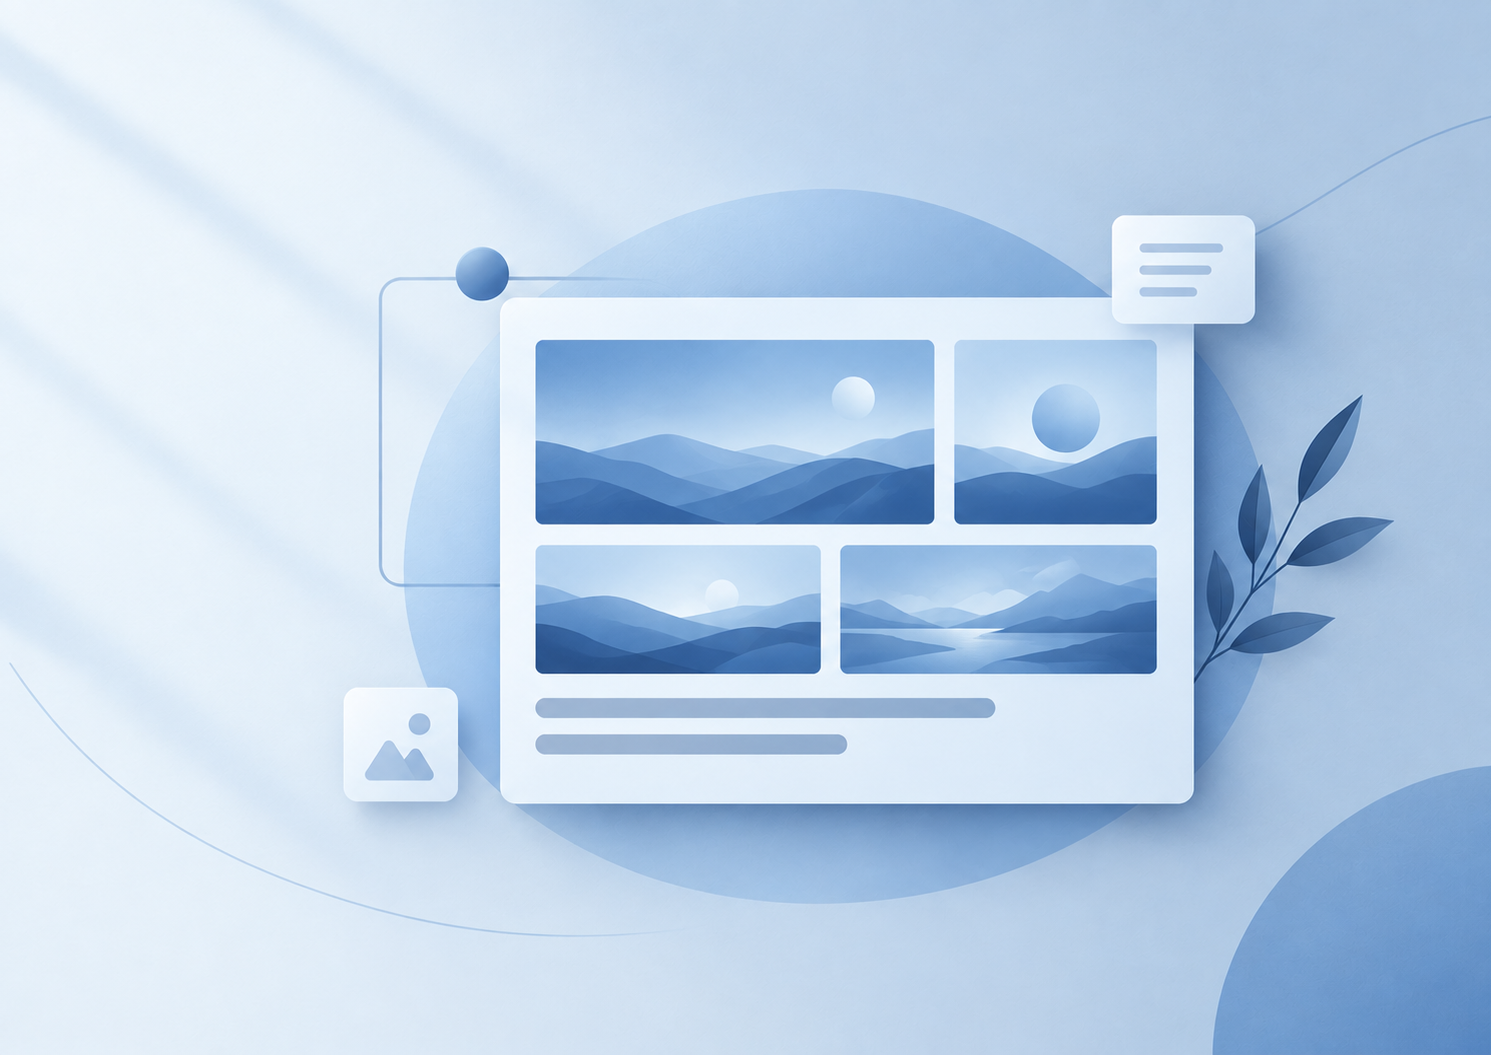
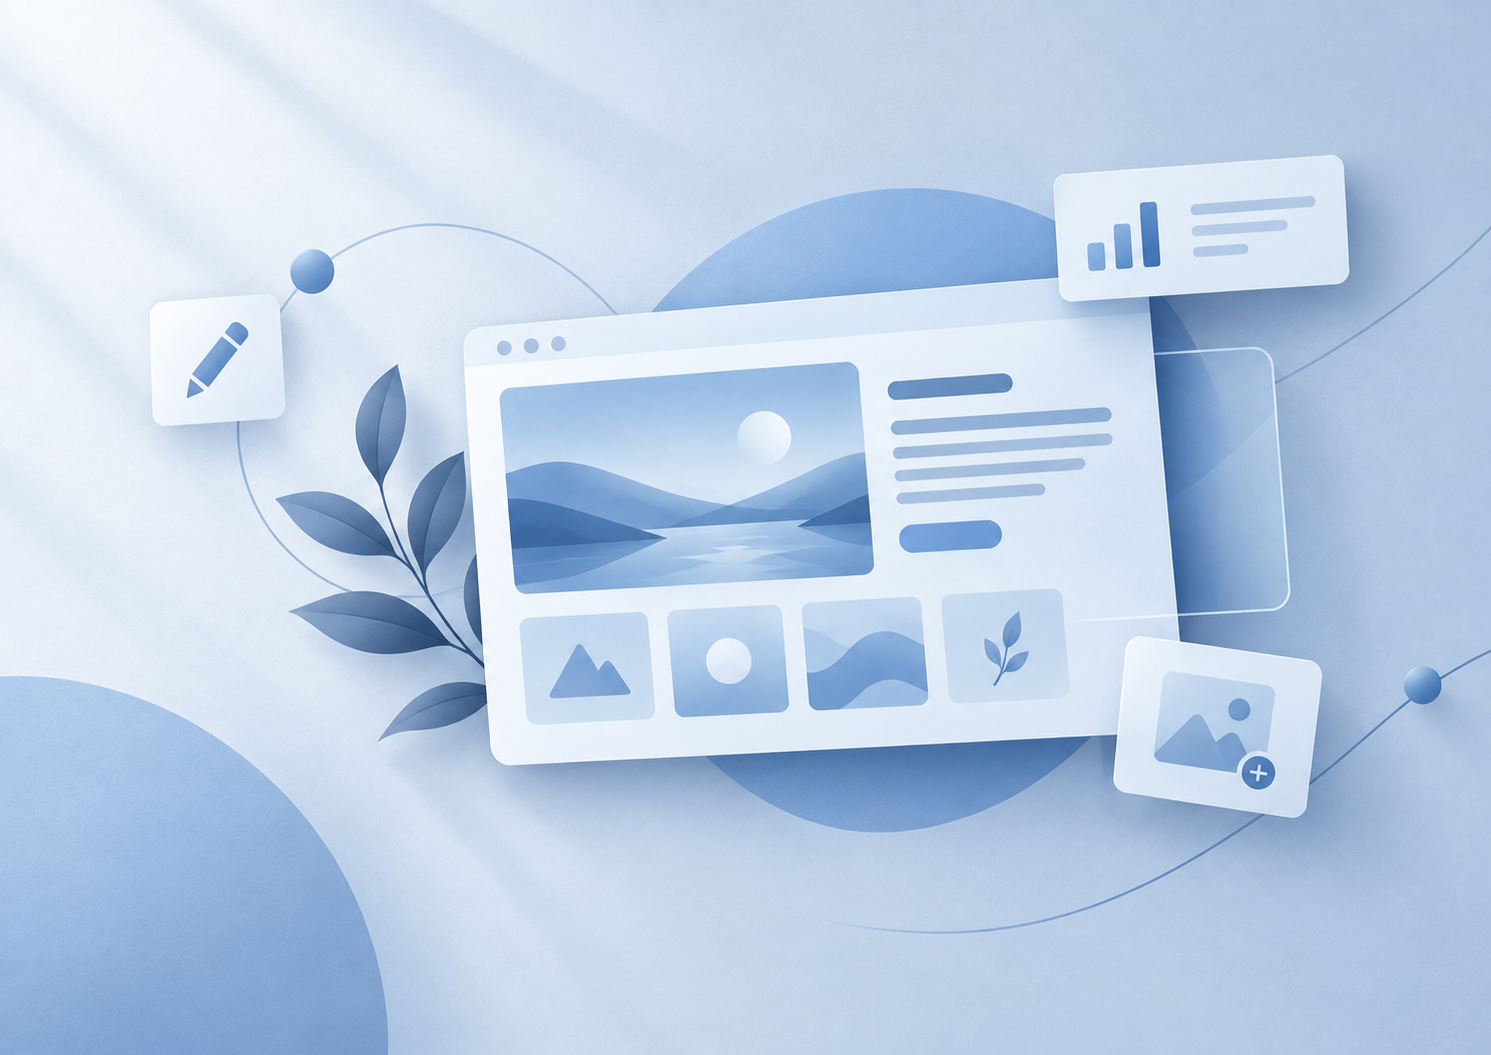
Add refresh control for recent AI image chats
Adds a refresh button to the Recent sidebar in the AI image generation flow. The button triggers a reload of the user's balance and recent thread history, and the recent list fetch now requests up to 20 items. The reload is also gated to avoid running while a studio session or active thread is open.

diff --git a/src/pages/Slides/AIStudio/AIImageGenerationUpdate.jsx b/src/pages/Slides/AIStudio/AIImageGenerationUpdate.jsx
@@ -1,4 +1,4 @@
-import React, { useState, useEffect, useRef } from 'react';
+import React, { useState, useEffect, useRef, useCallback } from 'react';
 import { 
   Plus, Search, Image as ImageIcon,
   ChevronDown, Mic, Sparkles, X, Lightbulb,
@@ -607,29 +607,31 @@ export default function AIImageGenerationUpdate({ onBack, onOpenBilling, onNavig
     }
   };
 
-  useEffect(() => {
-    async function loadUserSession() {
-      try {
-        const balance = saveWorkspaceId
-          ? await creditsService.getWorkspaceBalance(saveWorkspaceId)
-          : await creditsService.getPersonalBalance();
-        setCredits(balance.workspaceCredits || balance.personalCredits || balance.credits || 0);
+  const loadRecentChats = useCallback(async () => {
+    try {
+      const balance = saveWorkspaceId
+        ? await creditsService.getWorkspaceBalance(saveWorkspaceId)
+        : await creditsService.getPersonalBalance();
+      setCredits(balance.workspaceCredits || balance.personalCredits || balance.credits || 0);
 
-        if (!saveWorkspaceId) {
-          setRecentChats([]);
-          return;
-        }
-        const history = await imageGenService.listThreads(saveWorkspaceId, {
-          folderId: saveFolderId || undefined,
-          take: 10,
-        });
-        setRecentChats(history || []);
-      } catch(e) {
-        console.error("Failed to load user session", e);
+      if (!saveWorkspaceId) {
+        setRecentChats([]);
+        return;
       }
+      const history = await imageGenService.listThreads(saveWorkspaceId, {
+        folderId: saveFolderId || undefined,
+        take: 20,
+      });
+      setRecentChats(history || []);
+    } catch (e) {
+      console.error("Failed to load user session", e);
     }
-    loadUserSession();
   }, [saveWorkspaceId, saveFolderId]);
+
+  useEffect(() => {
+    if (launchStudio || activeThreadId) return undefined;
+    loadRecentChats();
+  }, [launchStudio, activeThreadId, loadRecentChats]);
 
   const getStyleImage = (styleId) => {
     switch(styleId) {
@@ -834,7 +836,17 @@ export default function AIImageGenerationUpdate({ onBack, onOpenBilling, onNavig
         </nav>
 
         <div className="sidebar-recent">
-           <h3><Clock size={14} /> Recent</h3>
+           <h3>
+             <Clock size={14} /> Recent
+             <button
+               type="button"
+               className="recent-refresh-btn"
+               title="Refresh recents"
+               onClick={loadRecentChats}
+             >
+               <RefreshCw size={12} />
+             </button>
+           </h3>
            <ul>
              {recentChats.map((chat, idx) => {
                const chatMode = String(chat.mode || chat.head?.mode || '').toLowerCase();

diff --git a/src/pages/Slides/AIStudio/AIImageGenerationUpdate.css b/src/pages/Slides/AIStudio/AIImageGenerationUpdate.css
@@ -172,6 +172,22 @@
   margin: 0 0 12px;
   flex-shrink: 0;
 }
+
+.recent-refresh-btn {
+  margin-left: auto;
+  border: none;
+  background: transparent;
+  color: inherit;
+  display: inline-flex;
+  padding: 2px;
+  cursor: pointer;
+  border-radius: 6px;
+}
+
+.recent-refresh-btn:hover {
+  color: var(--text-main, #111827);
+  background: color-mix(in srgb, var(--text-main, #111827) 6%, transparent);
+}
 .sidebar-recent ul {
   list-style: none;
   padding: 0;
